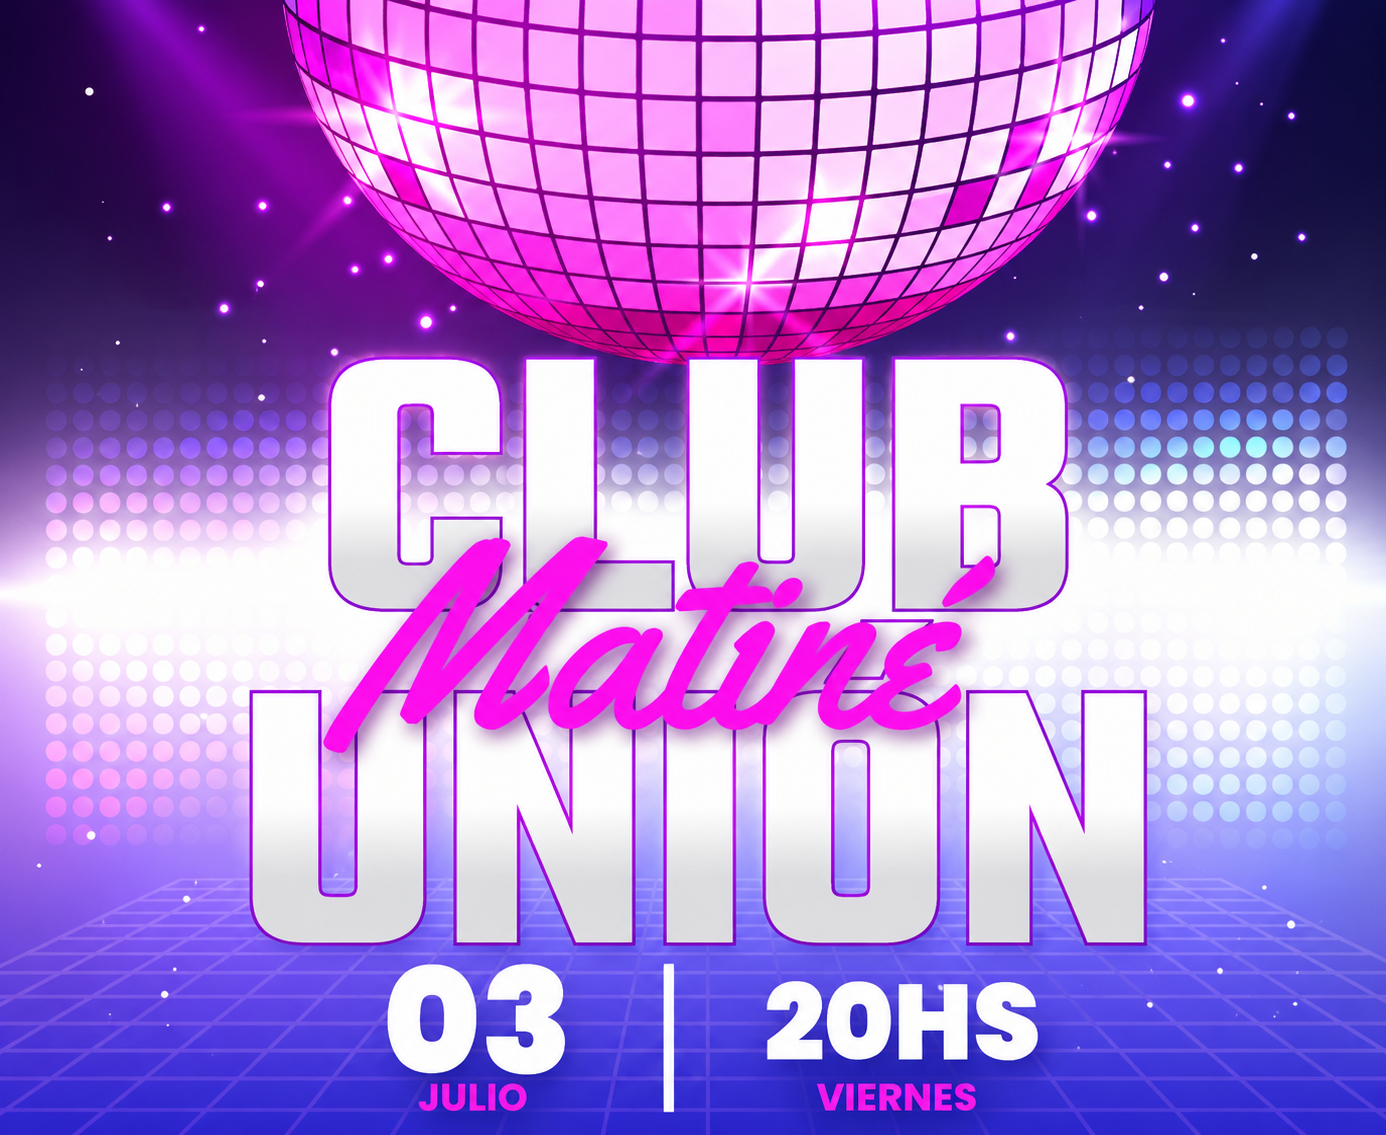
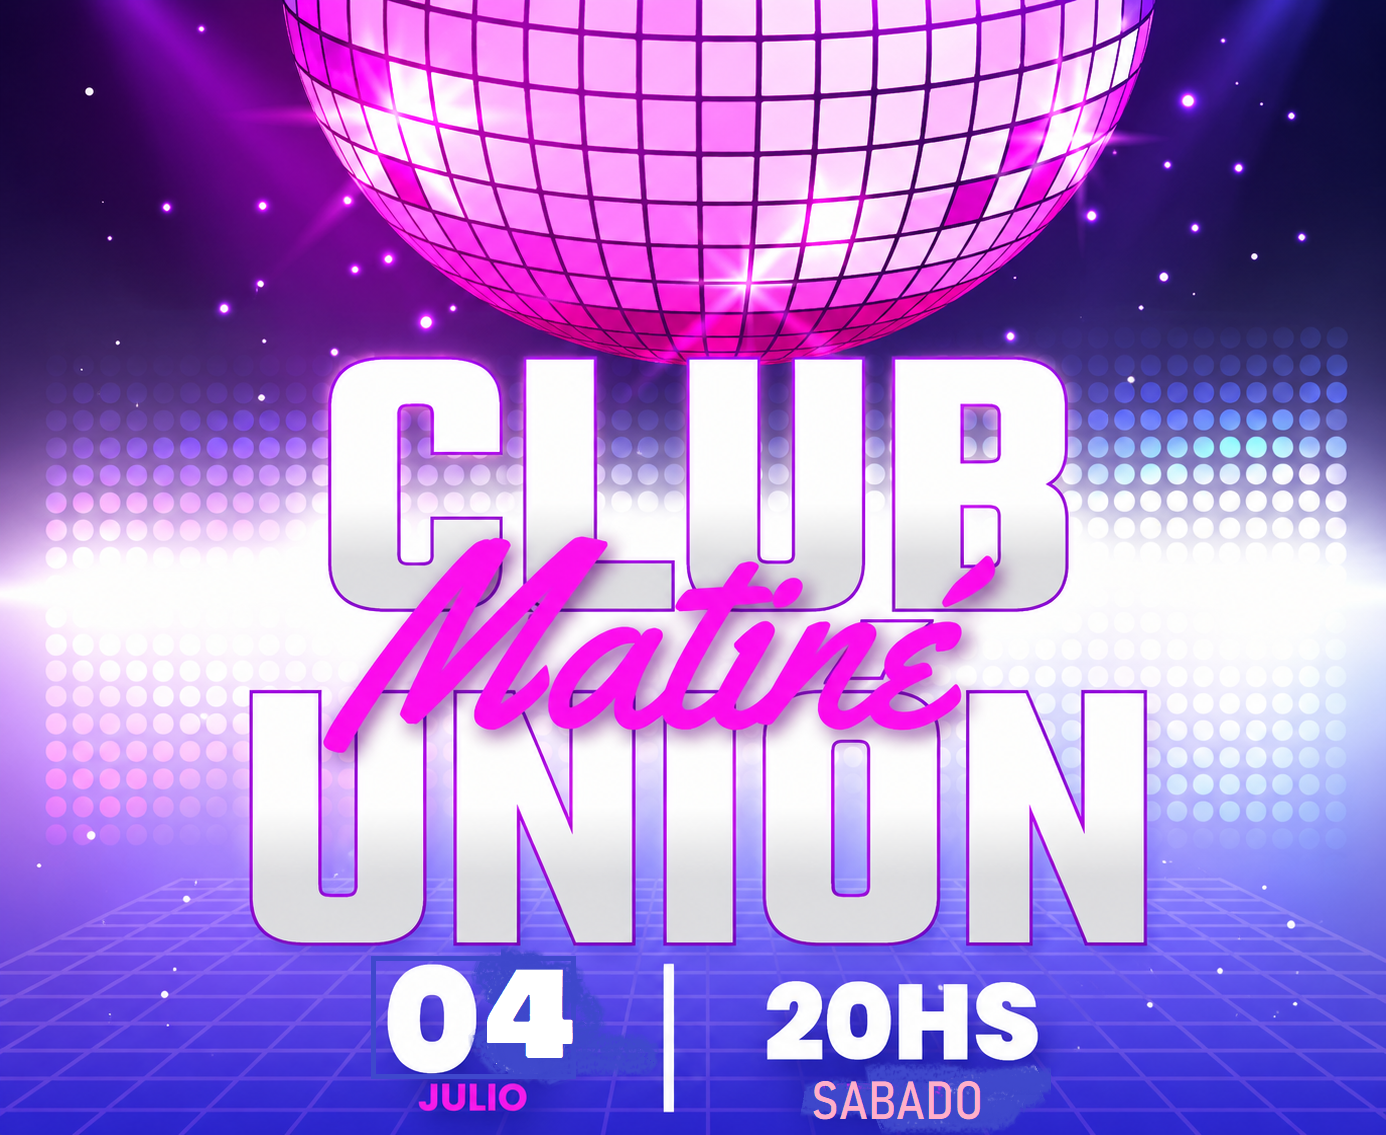
Add files via upload

Changed region(s): [[0.2482, 0.8326, 0.4343, 0.9559], [0.5584, 0.9251, 0.7446, 1.0]]

diff --git a/index.html b/index.html
@@ -633,9 +633,9 @@ transform:rotate(0deg);
 
 
 <div class="cd-box importante-btn"
-     onclick="abrirVideo()">
-    <div class="cd-lbl">MATINÉ !!!</div>
-</div>   
+     onclick="abrirPublicidad()">
+  <div class="cd-lbl">MATINÉ !!!</div>
+</div>  
     
 
  <!-- POR AHORA OCULTO "con display none"  --> 
@@ -684,7 +684,7 @@ transform:rotate(0deg);
   <div class="banner-pagina">
     <img src="avda.png" alt="Avda">
     <img src="rumbos2.png" alt="Rumbos2">
-    <img src="publica.png" alt="Publica">
+    <img src="matine.png" alt="Matin">
     <img src="avatar-arg.png" alt="Avatar">
   </div>
 
@@ -730,7 +730,7 @@ transform:rotate(0deg);
 
 <!-- Página 10 -->
 <div class="banner-pagina"> 
-    <img src="matine.png" alt="Matine">        
+    <img src="pent2.png" alt="Pent2">       
     <img src="nataly_verde.png" alt="Pelu Natal verd">
     <img src="blend.png" alt="Blend">
     <img src="lunaperfu.png" alt="Luna Perfu">       
@@ -1239,11 +1239,9 @@ let CURRENT_MATCHES={};let PRONOSTICOS_ABIERTOS=!![];const SHEET_URL='https://sc
 <!-- MODAL UNA PUBLIC FOTO -->
 <div id="pubModal" class="promo-modal">
   <span class="promo-close"
-        onclick="cerrarPublicidad()">
-    ✖
-  </span>
+        onclick="cerrarPublicidad()">✖</span>
   <img id="pubImg"
-       src="matine.jpg"
+       src="prem-matine.png"
        class="promo-img">
 </div>
 
@@ -1261,7 +1259,7 @@ let CURRENT_MATCHES={};let PRONOSTICOS_ABIERTOS=!![];const SHEET_URL='https://sc
   </div>
 </div>
 
-<!-- MODAL VIDEO PUBLIC -->
+<!-- MODAL VIDEO PUBLIC 
 <div id="videoModal" class="promo-modal">
   <span class="promo-close"
         onclick="cerrarVideo()">
@@ -1279,6 +1277,7 @@ let CURRENT_MATCHES={};let PRONOSTICOS_ABIERTOS=!![];const SHEET_URL='https://sc
               type="video/mp4">
   </video>
 </div>
+-->
 
 
 </body>